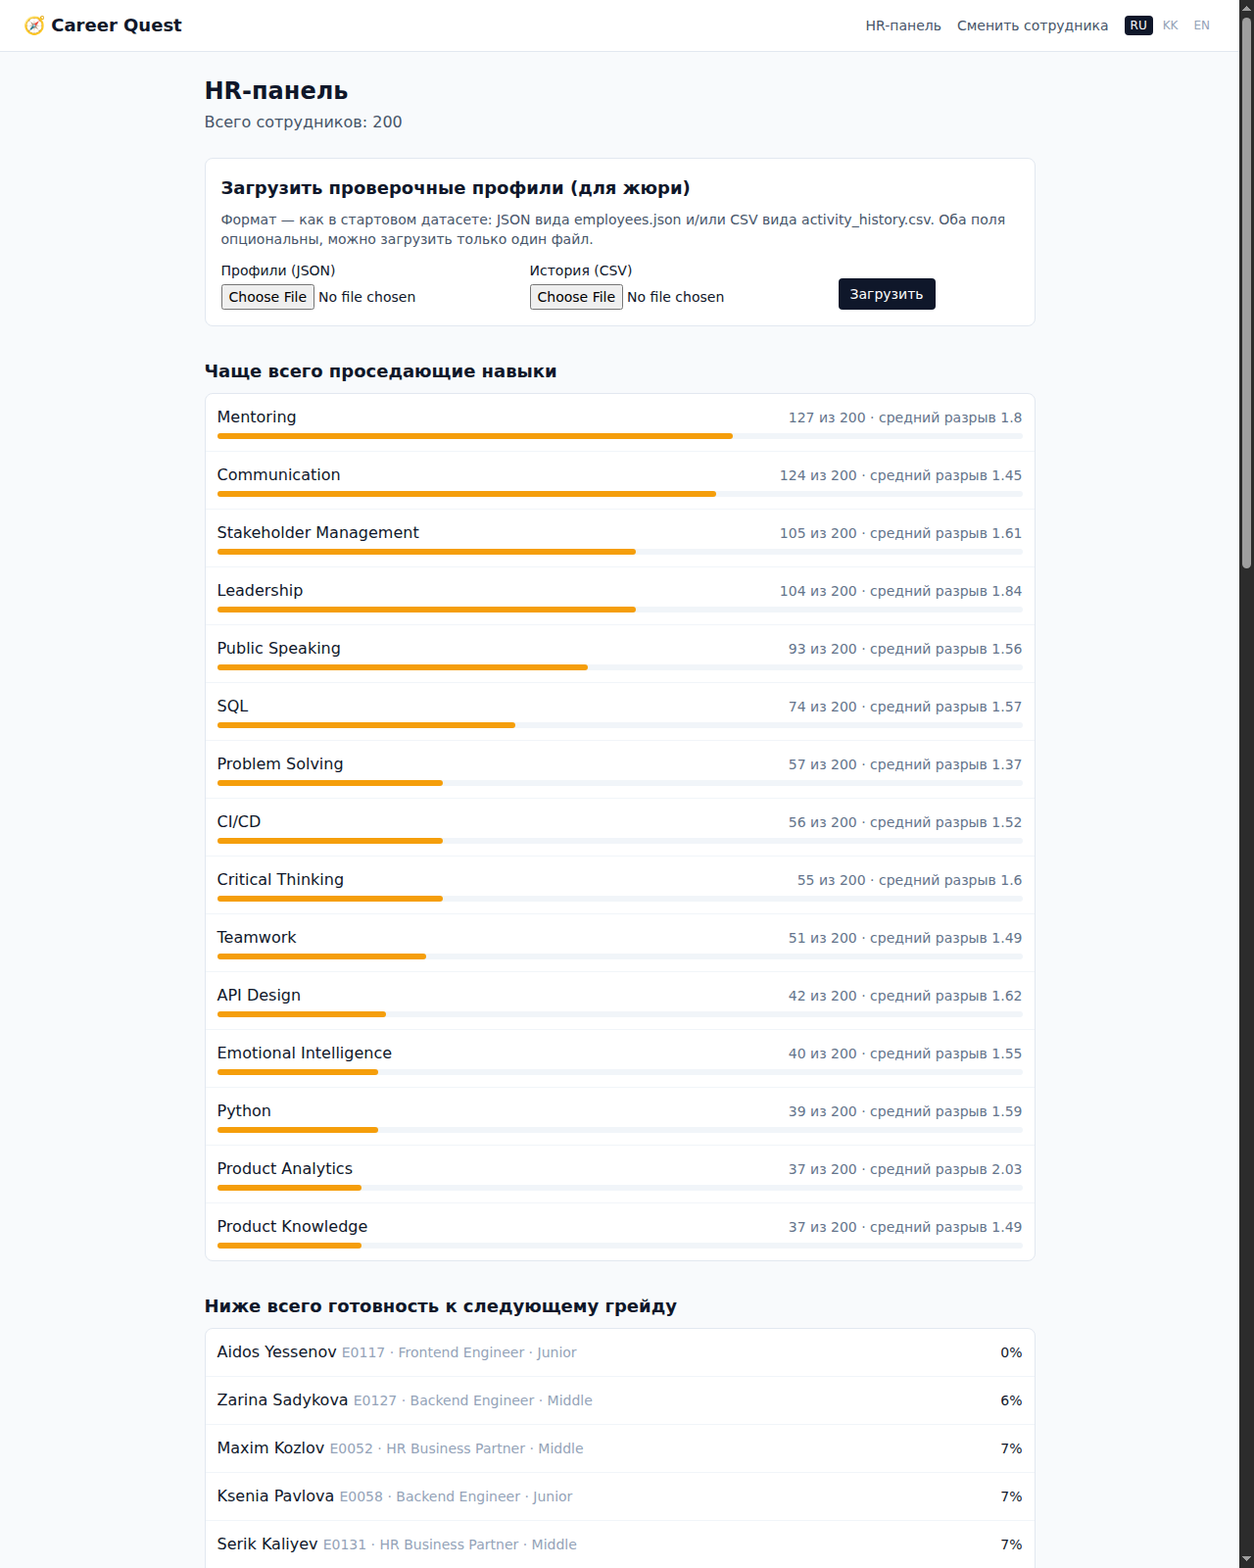
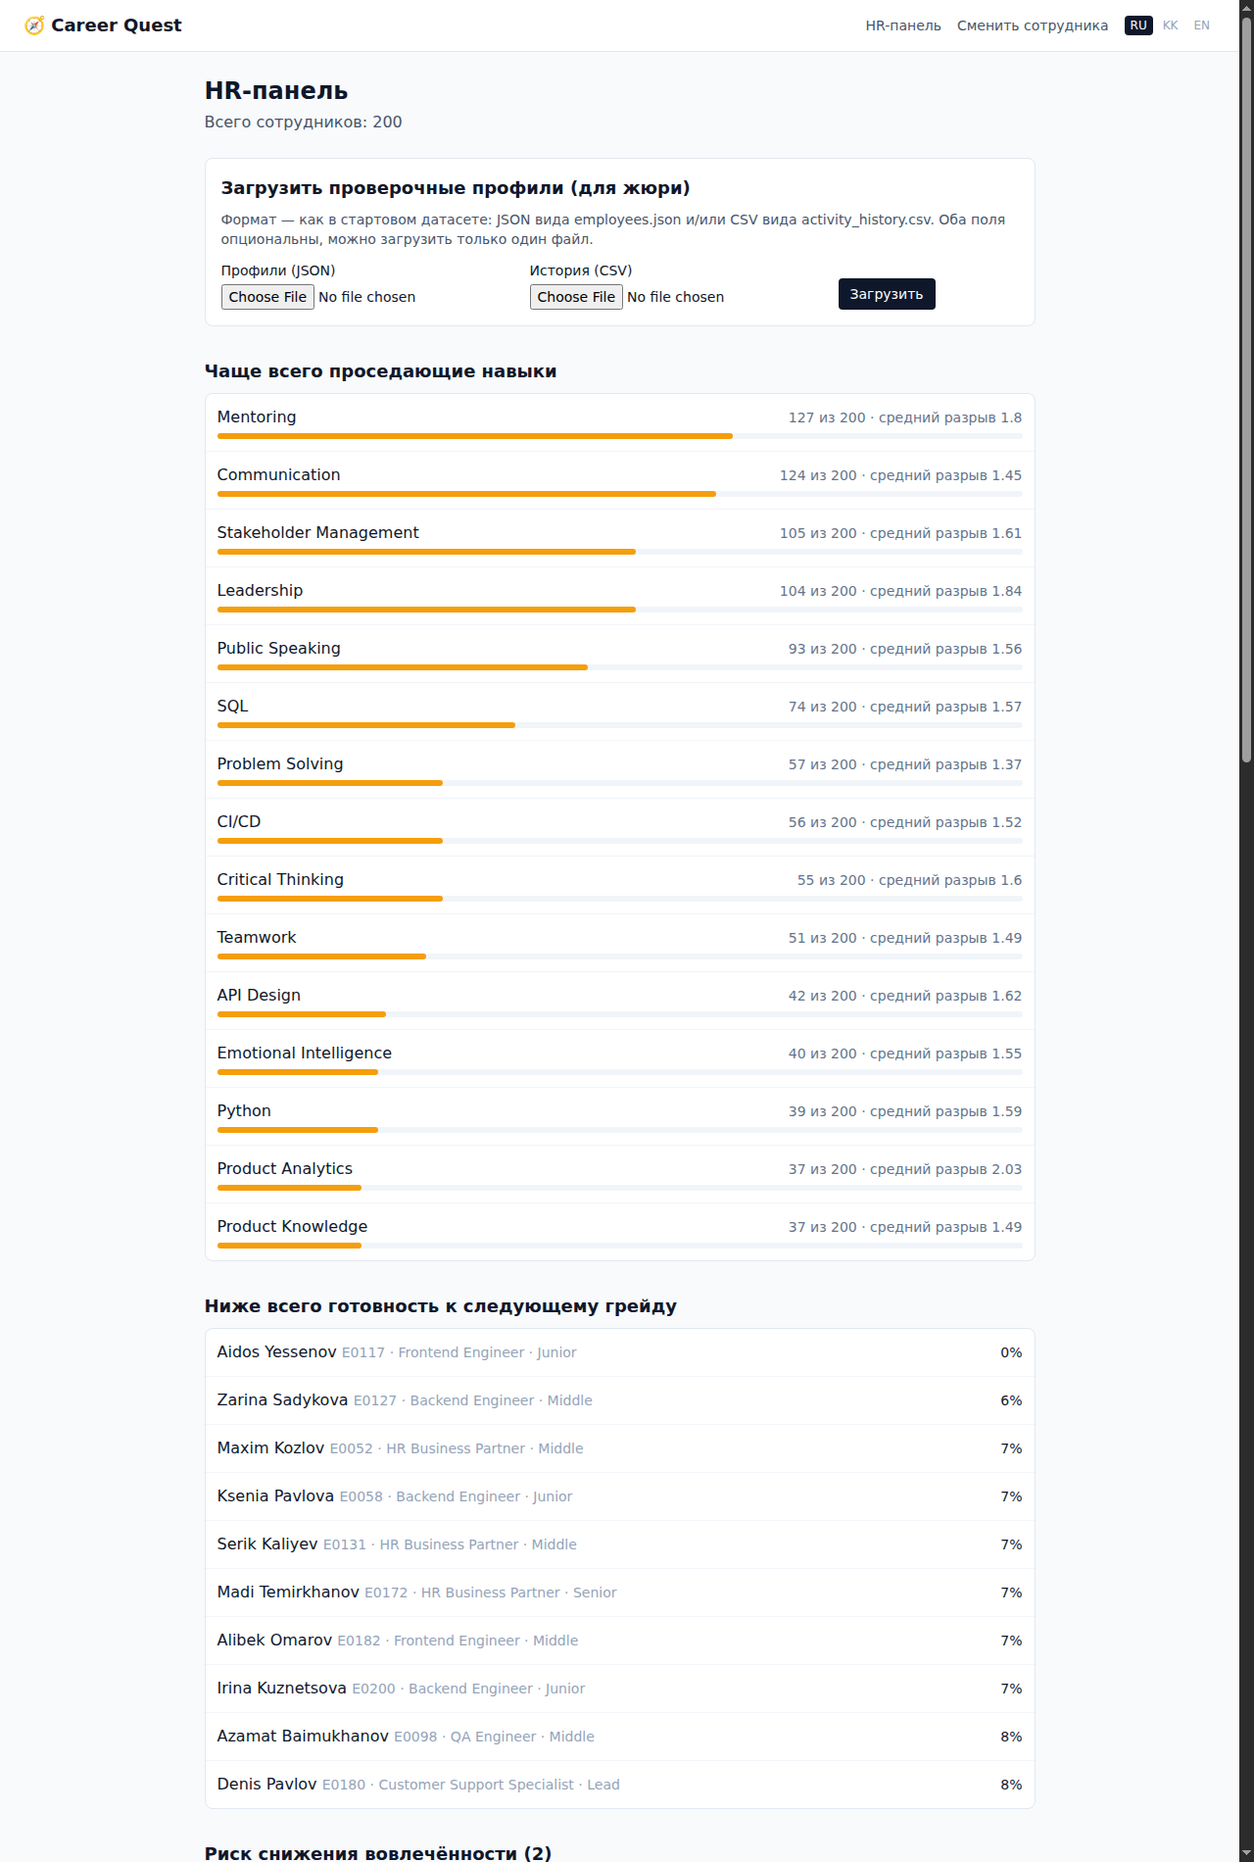
диаграмма, риск вовлечённости, toc, ruff

diff --git a/backend/app/templates/hr.html b/backend/app/templates/hr.html
@@ -47,6 +47,23 @@
 </section>
 
 <section class="mb-8">
+  <h2 class="text-lg font-semibold mb-2">{{ t('hr_risk_title') }} ({{ engagement_risk|length }})</h2>
+  <p class="text-xs text-slate-500 mb-2">{{ t('hr_risk_caption') }}</p>
+  {% if engagement_risk %}
+  <div class="bg-white border border-slate-200 rounded-lg divide-y divide-slate-100">
+    {% for e in engagement_risk %}
+    <a href="/employee/{{ e.employee_id }}" class="p-3 flex items-center justify-between hover:bg-slate-50">
+      <div>{{ e.full_name }} <span class="text-slate-400 text-sm">{{ e.employee_id }} · {{ e.role }} · {{ e.grade }}</span></div>
+      <div class="text-sm text-slate-500">{{ t('hr_risk_avoidance') }}: {{ (e.avoidance_rate * 100)|round|int }}% · {{ e.readiness_percent }}%</div>
+    </a>
+    {% endfor %}
+  </div>
+  {% else %}
+  <p class="text-slate-600">{{ t('hr_risk_none') }}</p>
+  {% endif %}
+</section>
+
+<section class="mb-8">
   <h2 class="text-lg font-semibold mb-2">{{ t('hr_without_step_title') }} ({{ without_step|length }})</h2>
   {% if without_step %}
   <div class="bg-white border border-slate-200 rounded-lg divide-y divide-slate-100">

diff --git a/backend/app/engine.py b/backend/app/engine.py
@@ -133,8 +133,9 @@ def recommend(store: DataStore, employee_id: str, top_n: int = 3) -> dict:
     target_role, target_grade, profile = target_for_employee(store, emp)
     gaps = skill_gaps(emp, profile)
 
+    avoided_statuses = ("declined", "no_show", "dropped")
     avoided_events = {
-        r["event_id"] for r in store.history_for_employee(employee_id) if r["status"] in ("declined", "no_show", "dropped")
+        r["event_id"] for r in store.history_for_employee(employee_id) if r["status"] in avoided_statuses
     }
 
     chosen: dict[str, dict] = {}
@@ -147,7 +148,12 @@ def recommend(store: DataStore, employee_id: str, top_n: int = 3) -> dict:
             continue
         history = history_stats_for_skill(store, employee_id, skill_id)
 
-        def sort_key(ev: dict) -> tuple:
+        def sort_key(ev: dict, skill_id: str = skill_id) -> tuple:
+            # skill_id захвачен как default-аргумент, а не через замыкание: иначе
+            # при позднем связывании к моменту вызова sort() использовалось бы
+            # значение skill_id из последней итерации внешнего цикла, а не из той,
+            # для которой sort_key был создан (это здесь не проявлялось как баг,
+            # так как sort() вызывается сразу же, но паттерн хрупкий — ruff B023).
             gain = next((d["gain"] for d in ev["develops_skills"] if d["skill_id"] == skill_id), 0)
             was_avoided = ev["event_id"] in avoided_events
             return (was_avoided, -gain)
@@ -155,7 +161,9 @@ def recommend(store: DataStore, employee_id: str, top_n: int = 3) -> dict:
         candidates.sort(key=sort_key)
         best = candidates[0]
         alternatives = [
-            {"event_id": c["event_id"], "title": c["title"]} for c in candidates[1:3] if c["event_id"] != best["event_id"]
+            {"event_id": c["event_id"], "title": c["title"]}
+            for c in candidates[1:3]
+            if c["event_id"] != best["event_id"]
         ]
         entry = chosen.setdefault(best["event_id"], {"event": best, "skills": []})
         entry["skills"].append(
@@ -197,7 +205,9 @@ def hr_overview(store: DataStore) -> dict:
     employees_without_step: list[str] = []
     readiness_by_employee: dict[str, int] = {}
 
-    for employee_id, emp in store.employees.items():
+    risk_signals: list[dict] = []
+
+    for employee_id in store.employees:
         result = recommend(store, employee_id)
         for gap in result["gaps"]:
             skill_gap_count[gap["skill_id"]] = skill_gap_count.get(gap["skill_id"], 0) + 1
@@ -206,7 +216,12 @@ def hr_overview(store: DataStore) -> dict:
             employees_without_step.append(employee_id)
         readiness_by_employee[employee_id] = result["readiness_percent"]
 
+        risk = engagement_risk(store, employee_id, result["readiness_percent"])
+        if risk is not None:
+            risk_signals.append(risk)
+
     lowest_readiness = sorted(readiness_by_employee.items(), key=lambda kv: kv[1])[:10]
+    risk_signals.sort(key=lambda r: r["avoidance_rate"], reverse=True)
 
     top_lagging_skills = sorted(
         (
@@ -221,10 +236,11 @@ def hr_overview(store: DataStore) -> dict:
         reverse=True,
     )[:15]
 
+    empty_bucket = {"completed": 0, "declined": 0, "no_show": 0, "dropped": 0, "other": 0}
     participation: dict[str, dict[str, int]] = {}
     for row in store.history:
         event_id = row["event_id"]
-        bucket = participation.setdefault(event_id, {"completed": 0, "declined": 0, "no_show": 0, "dropped": 0, "other": 0})
+        bucket = participation.setdefault(event_id, dict(empty_bucket))
         status = row["status"]
         bucket[status if status in bucket else "other"] += 1
 
@@ -234,4 +250,37 @@ def hr_overview(store: DataStore) -> dict:
         "participation_by_event": participation,
         "total_employees": len(store.employees),
         "lowest_readiness": lowest_readiness,
+        "engagement_risk": risk_signals[:10],
     }
+
+
+RISK_MIN_HISTORY = 3
+RISK_AVOIDANCE_RATE = 0.4
+RISK_READINESS_PERCENT = 30
+
+
+def engagement_risk(store: DataStore, employee_id: str, readiness_percent: int) -> dict | None:
+    """Эвристический сигнал риска снижения вовлечённости (опциональный пункт ТЗ
+    «прогноз риска оттока»).
+
+    Важная честная оговорка (см. README, «Ограничения»): это НЕ прогноз оттока
+    в строгом смысле — в датасете нет зарплаты, удовлетворённости, рынка труда.
+    Это узкий, объяснимый эвристический сигнал на тех данных, что есть: высокая
+    доля отказов/пропусков активностей развития (сигнал отключённости от процесса
+    добровольного развития — прямая связь с «Учесть: добровольность» из ТЗ) в
+    сочетании с низкой готовностью к следующему грейду (стагнация). Порог по
+    минимальной истории — чтобы не помечать сотрудников, про которых просто мало
+    данных (1-2 записи не говорят ни о чём)."""
+    rows = store.history_for_employee(employee_id)
+    if len(rows) < RISK_MIN_HISTORY:
+        return None
+    avoided = sum(1 for r in rows if r["status"] in ("declined", "no_show", "dropped"))
+    avoidance_rate = avoided / len(rows)
+    if avoidance_rate >= RISK_AVOIDANCE_RATE and readiness_percent <= RISK_READINESS_PERCENT:
+        return {
+            "employee_id": employee_id,
+            "avoidance_rate": round(avoidance_rate, 2),
+            "readiness_percent": readiness_percent,
+            "history_count": len(rows),
+        }
+    return None

diff --git a/backend/app/main.py b/backend/app/main.py
@@ -10,17 +10,16 @@ from __future__ import annotations
 
 import csv
 import io
+import json as _json
 from pathlib import Path
 
-from fastapi import FastAPI, HTTPException, Request, UploadFile, File, Form
+from fastapi import FastAPI, File, HTTPException, Request, UploadFile
 from fastapi.responses import RedirectResponse
 from fastapi.templating import Jinja2Templates
 
 from . import engine
 from .i18n import resolve_lang, translate
 from .store import store
-
-import json as _json
 
 
 def _lang_for_request(request: Request, *extra_candidates: str | None) -> str:
@@ -50,7 +49,7 @@ async def _parse_upload(
         try:
             raw = _json.loads((await employees_file.read()).decode("utf-8"))
         except (UnicodeDecodeError, _json.JSONDecodeError) as exc:
-            raise HTTPException(status_code=400, detail=f"Файл профилей — не валидный JSON: {exc}")
+            raise HTTPException(status_code=400, detail=f"Файл профилей — не валидный JSON: {exc}") from exc
         rows = raw["employees"] if isinstance(raw, dict) and "employees" in raw else raw
         if not isinstance(rows, list) or not all(isinstance(r, dict) and "employee_id" in r for r in rows):
             raise HTTPException(
@@ -64,7 +63,7 @@ async def _parse_upload(
             text = (await history_file.read()).decode("utf-8")
             rows = list(csv.DictReader(io.StringIO(text)))
         except UnicodeDecodeError as exc:
-            raise HTTPException(status_code=400, detail=f"Файл истории — не валидный CSV: {exc}")
+            raise HTTPException(status_code=400, detail=f"Файл истории — не валидный CSV: {exc}") from exc
         required_columns = {"employee_id", "event_id", "status"}
         if rows and not required_columns.issubset(rows[0].keys()):
             raise HTTPException(
@@ -100,7 +99,8 @@ def login(request: Request, employee_id: str):
     employee_id = employee_id.strip().upper()
     lang = _lang_for_request(request)
     if employee_id not in store.employees:
-        return _render(request, "index.html", lang, {"error": translate(lang, "not_found", id=employee_id)}, status_code=404)
+        error = {"error": translate(lang, "not_found", id=employee_id)}
+        return _render(request, "index.html", lang, error, status_code=404)
     return RedirectResponse(url=f"/employee/{employee_id}", status_code=303)
 
 
@@ -109,7 +109,8 @@ def employee_page(request: Request, employee_id: str):
     emp = store.employees.get(employee_id)
     if emp is None:
         lang = _lang_for_request(request)
-        return _render(request, "index.html", lang, {"error": translate(lang, "not_found", id=employee_id)}, status_code=404)
+        error = {"error": translate(lang, "not_found", id=employee_id)}
+        return _render(request, "index.html", lang, error, status_code=404)
 
     lang = _lang_for_request(request, emp.get("preferred_language"))
     result = engine.recommend(store, employee_id)
@@ -162,9 +163,9 @@ def employee_page(request: Request, employee_id: str):
 def _rationale_for(emp: dict, target_grade: str, step: dict, deadline: float | None = None) -> dict:
     from .explain import build_rationale
 
-    return build_rationale(
-        target_grade, step, emp.get("preferred_language", "ru"), emp.get("full_name", emp["employee_id"]), deadline=deadline
-    )
+    lang = emp.get("preferred_language", "ru")
+    name = emp.get("full_name", emp["employee_id"])
+    return build_rationale(target_grade, step, lang, name, deadline=deadline)
 
 
 @app.post("/employee/{employee_id}/complete/{event_id}")
@@ -176,7 +177,8 @@ def complete_activity(employee_id: str, event_id: str):
     # ДО применения gain, чтобы после показать явное «было → стало», а не просто новые
     # цифры без объяснения, что именно изменилось.
     event = store.events[event_id]
-    before = {d["skill_id"]: store.employees[employee_id]["skills"].get(d["skill_id"], 0) for d in event.get("develops_skills", [])}
+    current_skills = store.employees[employee_id]["skills"]
+    before = {d["skill_id"]: current_skills.get(d["skill_id"], 0) for d in event.get("develops_skills", [])}
     store.complete_activity(employee_id, event_id)
     after = {sid: store.employees[employee_id]["skills"].get(sid, 0) for sid in before}
     changed = ",".join(f"{sid}:{before[sid]}:{after[sid]}" for sid in before if after[sid] != before[sid])
@@ -203,6 +205,11 @@ def hr_page(request: Request, uploaded: int | None = None):
         for eid, pct in overview["lowest_readiness"]
         if eid in store.employees
     ]
+    engagement_risk = [
+        {**store.employees[r["employee_id"]], **r}
+        for r in overview["engagement_risk"]
+        if r["employee_id"] in store.employees
+    ]
     return _render(
         request,
         "hr.html",
@@ -211,6 +218,7 @@ def hr_page(request: Request, uploaded: int | None = None):
             "lagging": lagging,
             "without_step": without_step,
             "lowest_readiness": lowest_readiness,
+            "engagement_risk": engagement_risk,
             "participation": overview["participation_by_event"],
             "events": store.events,
             "total_employees": overview["total_employees"],
@@ -255,7 +263,7 @@ def api_complete(employee_id: str, event_id: str):
     try:
         record = store.complete_activity(employee_id, event_id)
     except KeyError:
-        raise HTTPException(status_code=404, detail="not found")
+        raise HTTPException(status_code=404, detail="not found") from None
     return {"record": record, "profile": engine.recommend(store, employee_id)}
 
 

diff --git a/backend/tests/test_engine.py b/backend/tests/test_engine.py
@@ -170,6 +170,50 @@ def test_skill_never_decreases_even_if_event_max_level_is_lower():
     assert emp["skills"][dev["skill_id"]] == dev["max_level"] + 5, "навык не должен понижаться"
 
 
+def test_engagement_risk_flags_high_avoidance_and_low_readiness():
+    store = make_store()
+    store.add_employees(
+        [
+            {
+                "employee_id": "TEST_RISK",
+                "full_name": "Risk Case",
+                "department": "Backend Development",
+                "role": "Backend Engineer",
+                "grade": "Junior",
+                "manager_id": None,
+                "hire_date": "2023-01-01",
+                "tenure_months": 24,
+                "work_format": "office",
+                "preferred_language": "ru",
+                "career_goal": None,
+                "skills": {},  # почти все навыки на нуле — низкая готовность гарантирована
+                "last_review_date": "2026-09-01",
+            }
+        ]
+    )
+    store.add_history(
+        [
+            {"employee_id": "TEST_RISK", "event_id": "EV_005", "date": "2025-01-01", "status": "declined"},
+            {"employee_id": "TEST_RISK", "event_id": "EV_009", "date": "2025-02-01", "status": "no_show"},
+            {"employee_id": "TEST_RISK", "event_id": "EV_010", "date": "2025-03-01", "status": "dropped"},
+            {"employee_id": "TEST_RISK", "event_id": "EV_038", "date": "2025-04-01", "status": "completed"},
+        ]
+    )
+    result = engine.recommend(store, "TEST_RISK")
+    risk = engine.engagement_risk(store, "TEST_RISK", result["readiness_percent"])
+    assert risk is not None
+    assert risk["avoidance_rate"] == 0.75
+
+
+def test_engagement_risk_none_with_too_little_history():
+    store = make_store()
+    # у обычного сотрудника из сида истории мало или готовность нормальная —
+    # хотя бы не должно падать с ошибкой на реальных данных
+    for employee_id in list(store.employees)[:5]:
+        risk = engine.engagement_risk(store, employee_id, 100)  # искусственно высокая готовность
+        assert risk is None, "при высокой готовности риск не должен срабатывать"
+
+
 def test_next_grade_respects_order():
     store = make_store()
     assert engine.next_grade(store.role_profiles, "Backend Engineer", "Junior") == "Middle"

diff --git a/backend/app/i18n.py b/backend/app/i18n.py
@@ -131,6 +131,22 @@ _T: dict[str, dict[str, str]] = {
         "kk": "Барлық қызметкерлерде кемінде бір ұсынылған қадам бар.",
         "en": "Every employee has at least one recommended step.",
     },
+    "hr_risk_title": {
+        "ru": "Риск снижения вовлечённости",
+        "kk": "Тартылымдылықтың төмендеу қаупі",
+        "en": "Engagement risk",
+    },
+    "hr_risk_caption": {
+        "ru": "Эвристика, не строгий прогноз оттока (нет данных о зарплате/удовлетворённости): часто отказывается/пропускает + готовность к грейду стагнирует.",
+        "kk": "Эвристика, қатаң кету болжамы емес (жалақы/қанағаттану деректері жоқ): жиі бас тартады/өткізіп алады + грейдке дайындық тоқтап тұр.",
+        "en": "Heuristic, not a strict attrition forecast (no salary/satisfaction data): frequent declines/no-shows combined with stagnant grade readiness.",
+    },
+    "hr_risk_none": {
+        "ru": "Ни у кого нет одновременно высокой доли отказов и низкой готовности.",
+        "kk": "Ешкімде бас тартулардың жоғары үлесі мен төмен дайындық бір мезгілде жоқ.",
+        "en": "No one currently has both a high avoidance rate and low readiness.",
+    },
+    "hr_risk_avoidance": {"ru": "доля отказов/пропусков", "kk": "бас тарту/өткізіп алу үлесі", "en": "avoidance rate"},
     "hr_participation_title": {"ru": "Участие по активностям", "kk": "Іс-шаралар бойынша қатысу", "en": "Participation by activity"},
     "hr_col_activity": {"ru": "Активность", "kk": "Іс-шара", "en": "Activity"},
     "hr_col_completed": {"ru": "Завершено", "kk": "Аяқталды", "en": "Completed"},

diff --git a/backend/app/explain.py b/backend/app/explain.py
@@ -182,7 +182,8 @@ def _llm_agentic_rationale(
                 continue
             return (msg.content or "").strip() or None
         return None
-    except Exception:
+    except Exception:  # noqa: BLE001 — намеренно широко: сеть/таймаут/авторизация/SDK
+        # не должны ронять рекомендацию, а должны падать в детерминированный шаблон.
         return None
 
 

diff --git a/backend/app/store.py b/backend/app/store.py
@@ -16,7 +16,6 @@ import csv
 import json
 import threading
 from pathlib import Path
-from typing import Any
 
 SEED_DIR = Path(__file__).parent / "data" / "seed"
 
